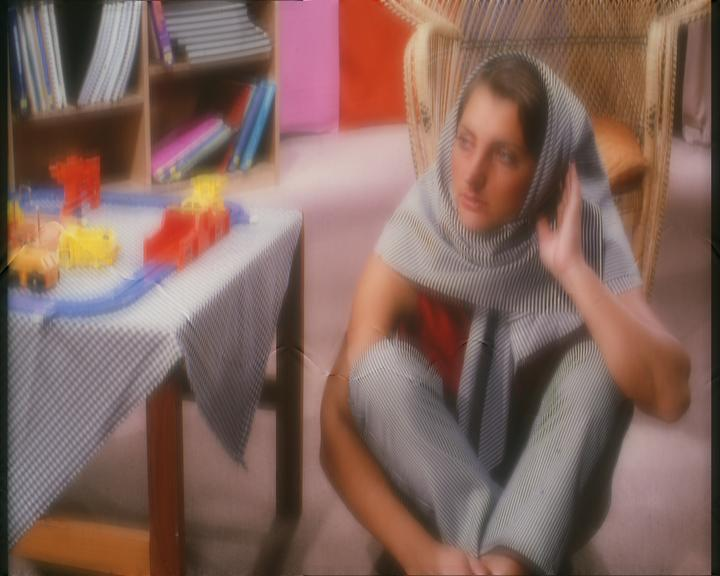
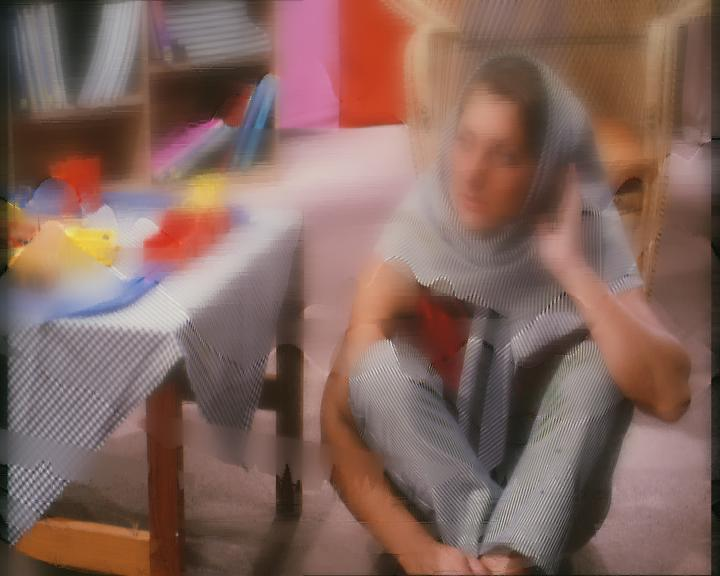
part 2 done

diff --git a/main.m b/main.m
@@ -18,15 +18,14 @@ lena = im2double(imread('../lena.jpg'));
 
 input = low;
 
-% tic
-% I = edgeAware(input, 1, lambda, W, alpha, sigma);
-% toc
+tic
+I = edgeAware(input, 2, lambda, W, alpha, sigma);
+toc
 
-% imshow([input I]);
-% imshow([input imbilatfilt(input)]);
-% imwrite(I, folder_3 + "p1/low_3c.jpg");
+imshow([input I]);
+% imwrite(I, folder_3 + "p1/high_3cbZ.jpg");
 
-pair_number = 2; % 1-5
+pair_number = 4; % 1-5
 
 if pair_number == 1
     flash = im2double(imread(folder_2 + 'carpet_00_flash.jpg'));
@@ -34,10 +33,6 @@ if pair_number == 1
 elseif pair_number == 2
     flash = im2double(imread(folder_2 + 'cave01_00_flash.jpg'));
     no_flash = im2double(imread(folder_2 + 'cave01_01_noflash.jpg'));
-    lambda = 3;
-    W = 10;
-    alpha = 2;
-    sigma = 0.1;
 elseif pair_number == 3
     flash = im2double(imread(folder_2 + 'lamp_00_flash.jpg'));
     no_flash = im2double(imread(folder_2 + 'lamp_01_noflash.jpg'));
@@ -54,16 +49,28 @@ end
 input = low;
 guide = high;
 
-lambda = 3; % 0.1, 1, 10
-W = 10; % 5, 10, 20
+lambda = 1;
+W = 10;
 alpha = 2;
-sigma = 0.1;
+sigma = 0.005;
 
 tic
-I = edgeAware(no_flash, 5, lambda, W, alpha, sigma);
-% I = edgeAware(no_flash, 5, lambda, W, alpha, sigma, flash);
+% lambda = 5; W = 10; alpha = 2; sigma = 0.1; % a,d,e
+% lambda = 3; W = 10; alpha = 2; sigma = 0.1; % b,c
+% I = edgeAware(no_flash, 5, lambda, W, alpha, sigma);
+% imwrite(I, folder_3 + "p2/d2_itselfZ.jpg");
+
+% lambda = 1; W = 10; alpha = 2; sigma = 0.005; % a,d,e (p3)
+% lambda = 0.1; W = 10; alpha = 2; sigma = 0.005; % b
+% lambda = 2; W = 10; alpha = 2; sigma = 0.005; % c
+% I = cross(no_flash, 5, lambda, W, alpha, sigma, flash);
+% imwrite(I, folder_3 + "p2/e1_cross.jpg");
 toc
 
-imshow([no_flash I]);
-imwrite(I, folder_3 + "p2/b1_crossZZZ.jpg");
+% imshow([no_flash I]);
 
+% tic
+% lambda = 1; W = 10; alpha = 2; sigma = 0.005;
+% I = cross(low, 5, lambda, W, alpha, sigma, high);
+% imwrite(I, folder_3 + "p3/1Z.jpg");
+% toc

diff --git a/cross.m b/cross.m
@@ -1,0 +1,6 @@
+function [J] = cross(I, n_iterations, lambda, W, alpha, sigma, guide)
+
+% guide parameter is mandatory for the cross function
+J = edgeAware(I, n_iterations, lambda, W, alpha, sigma, guide);
+
+end
